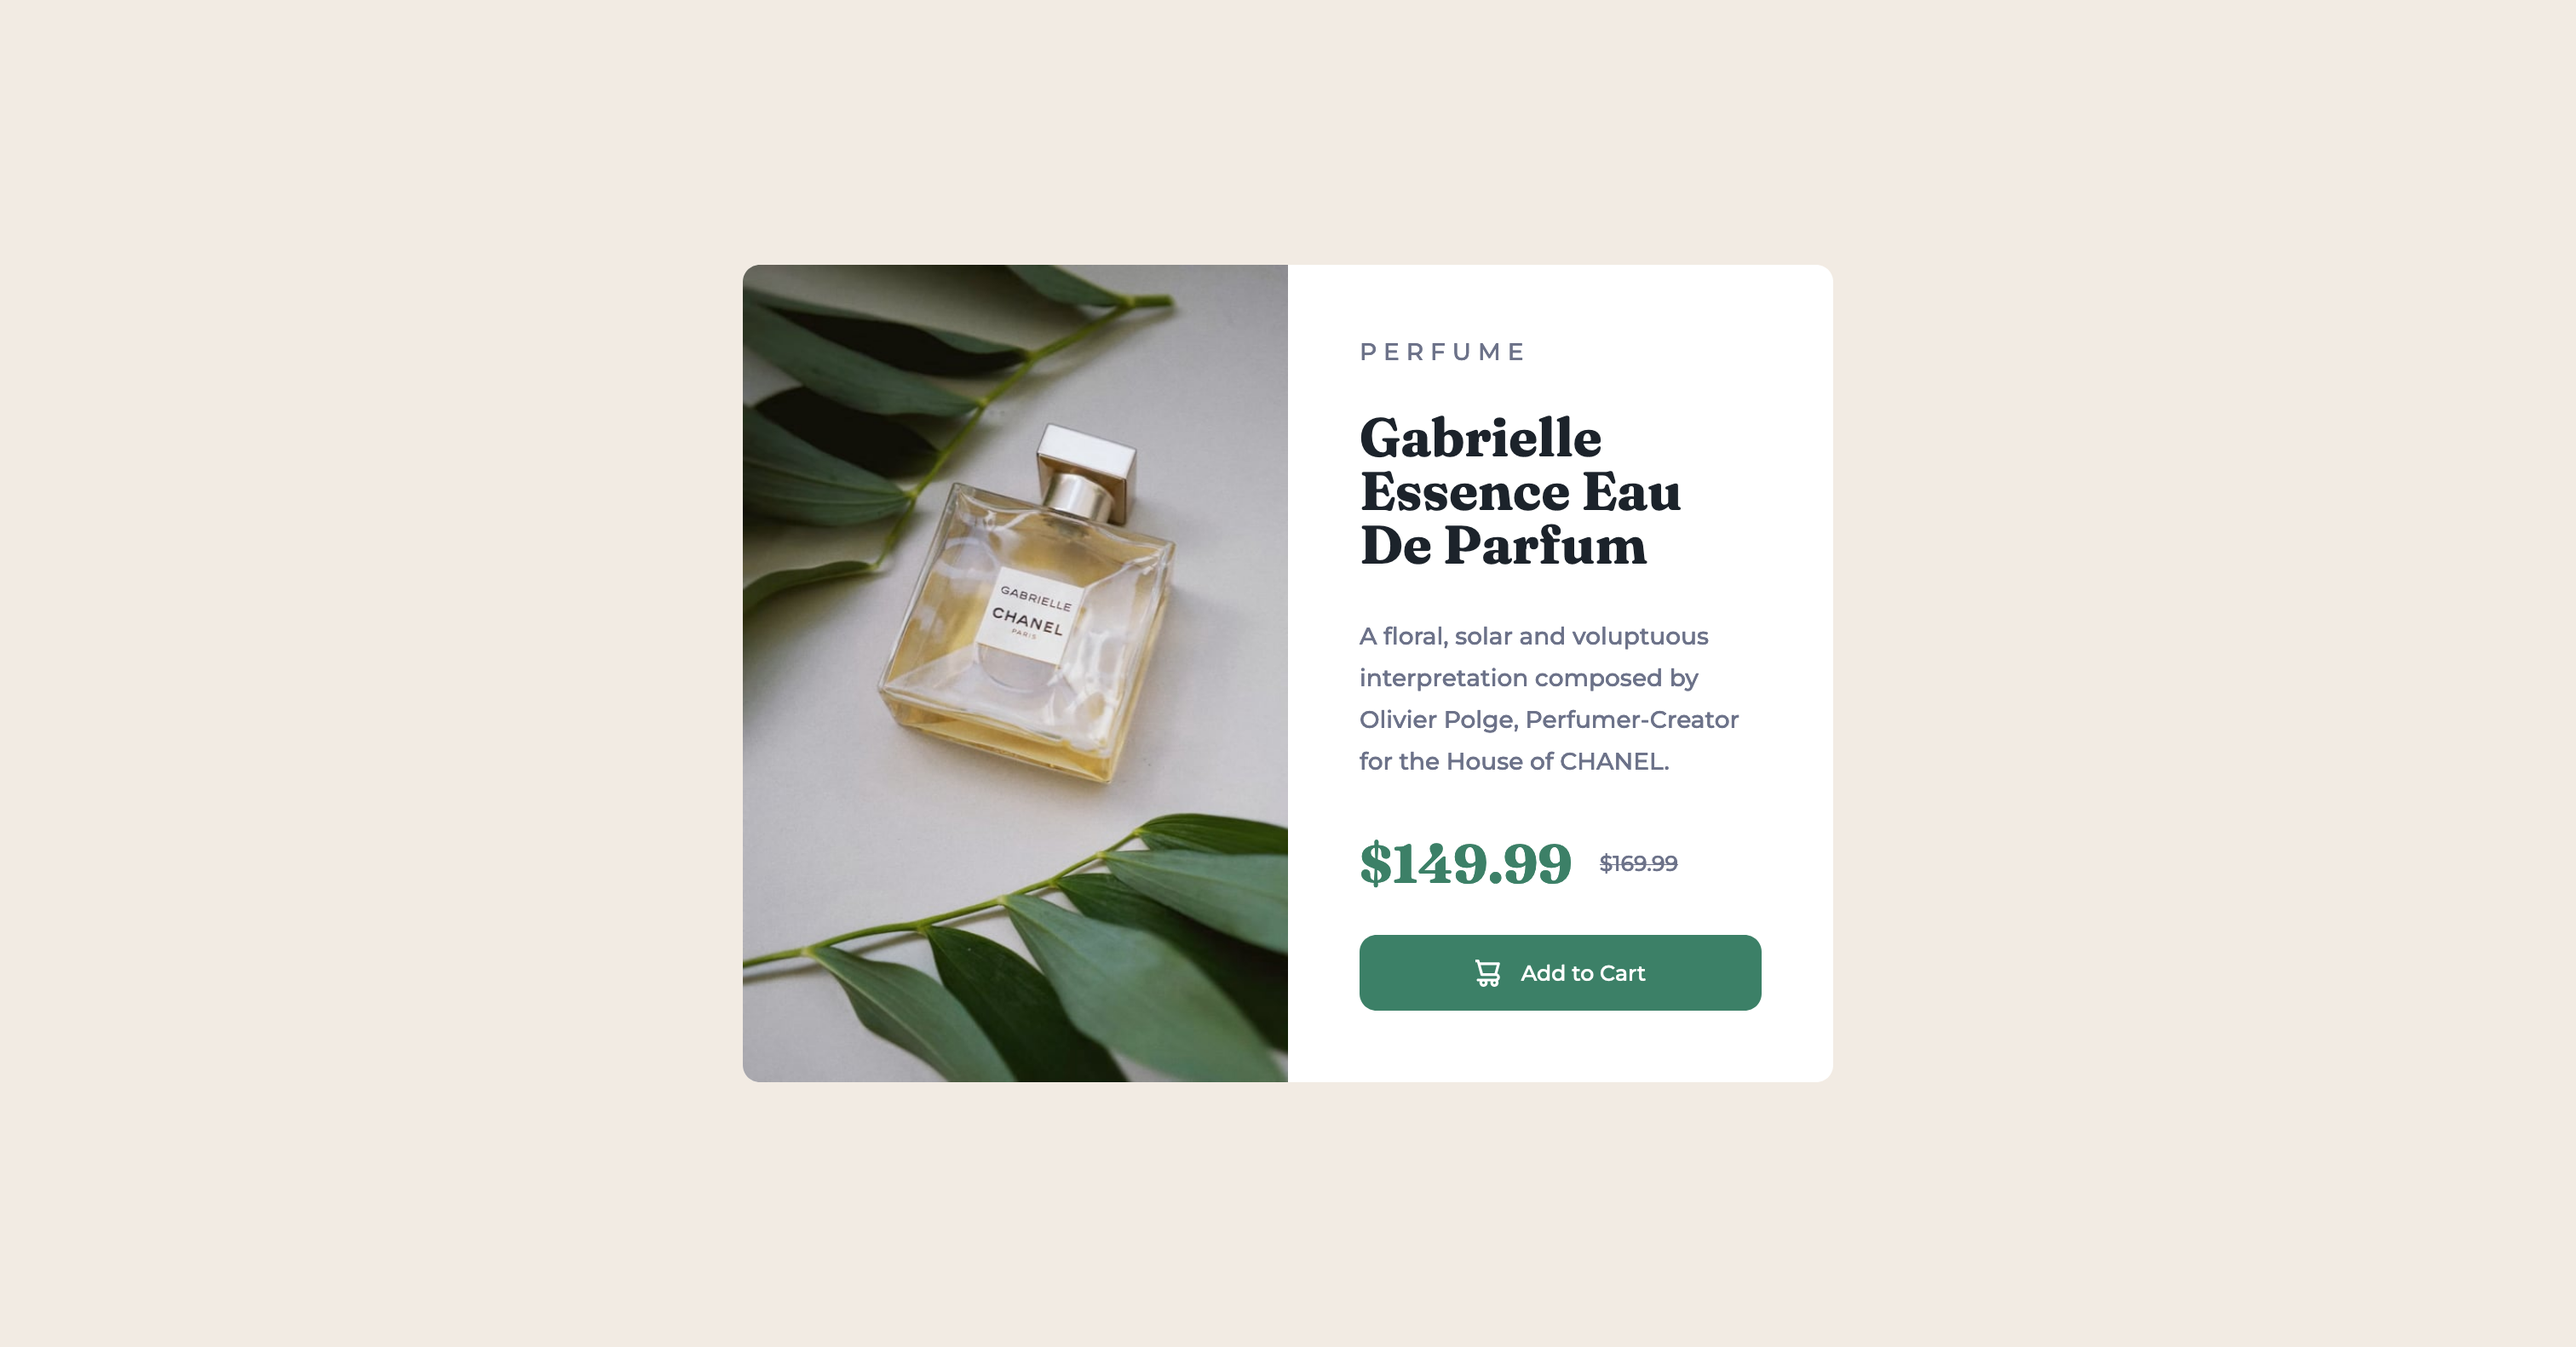
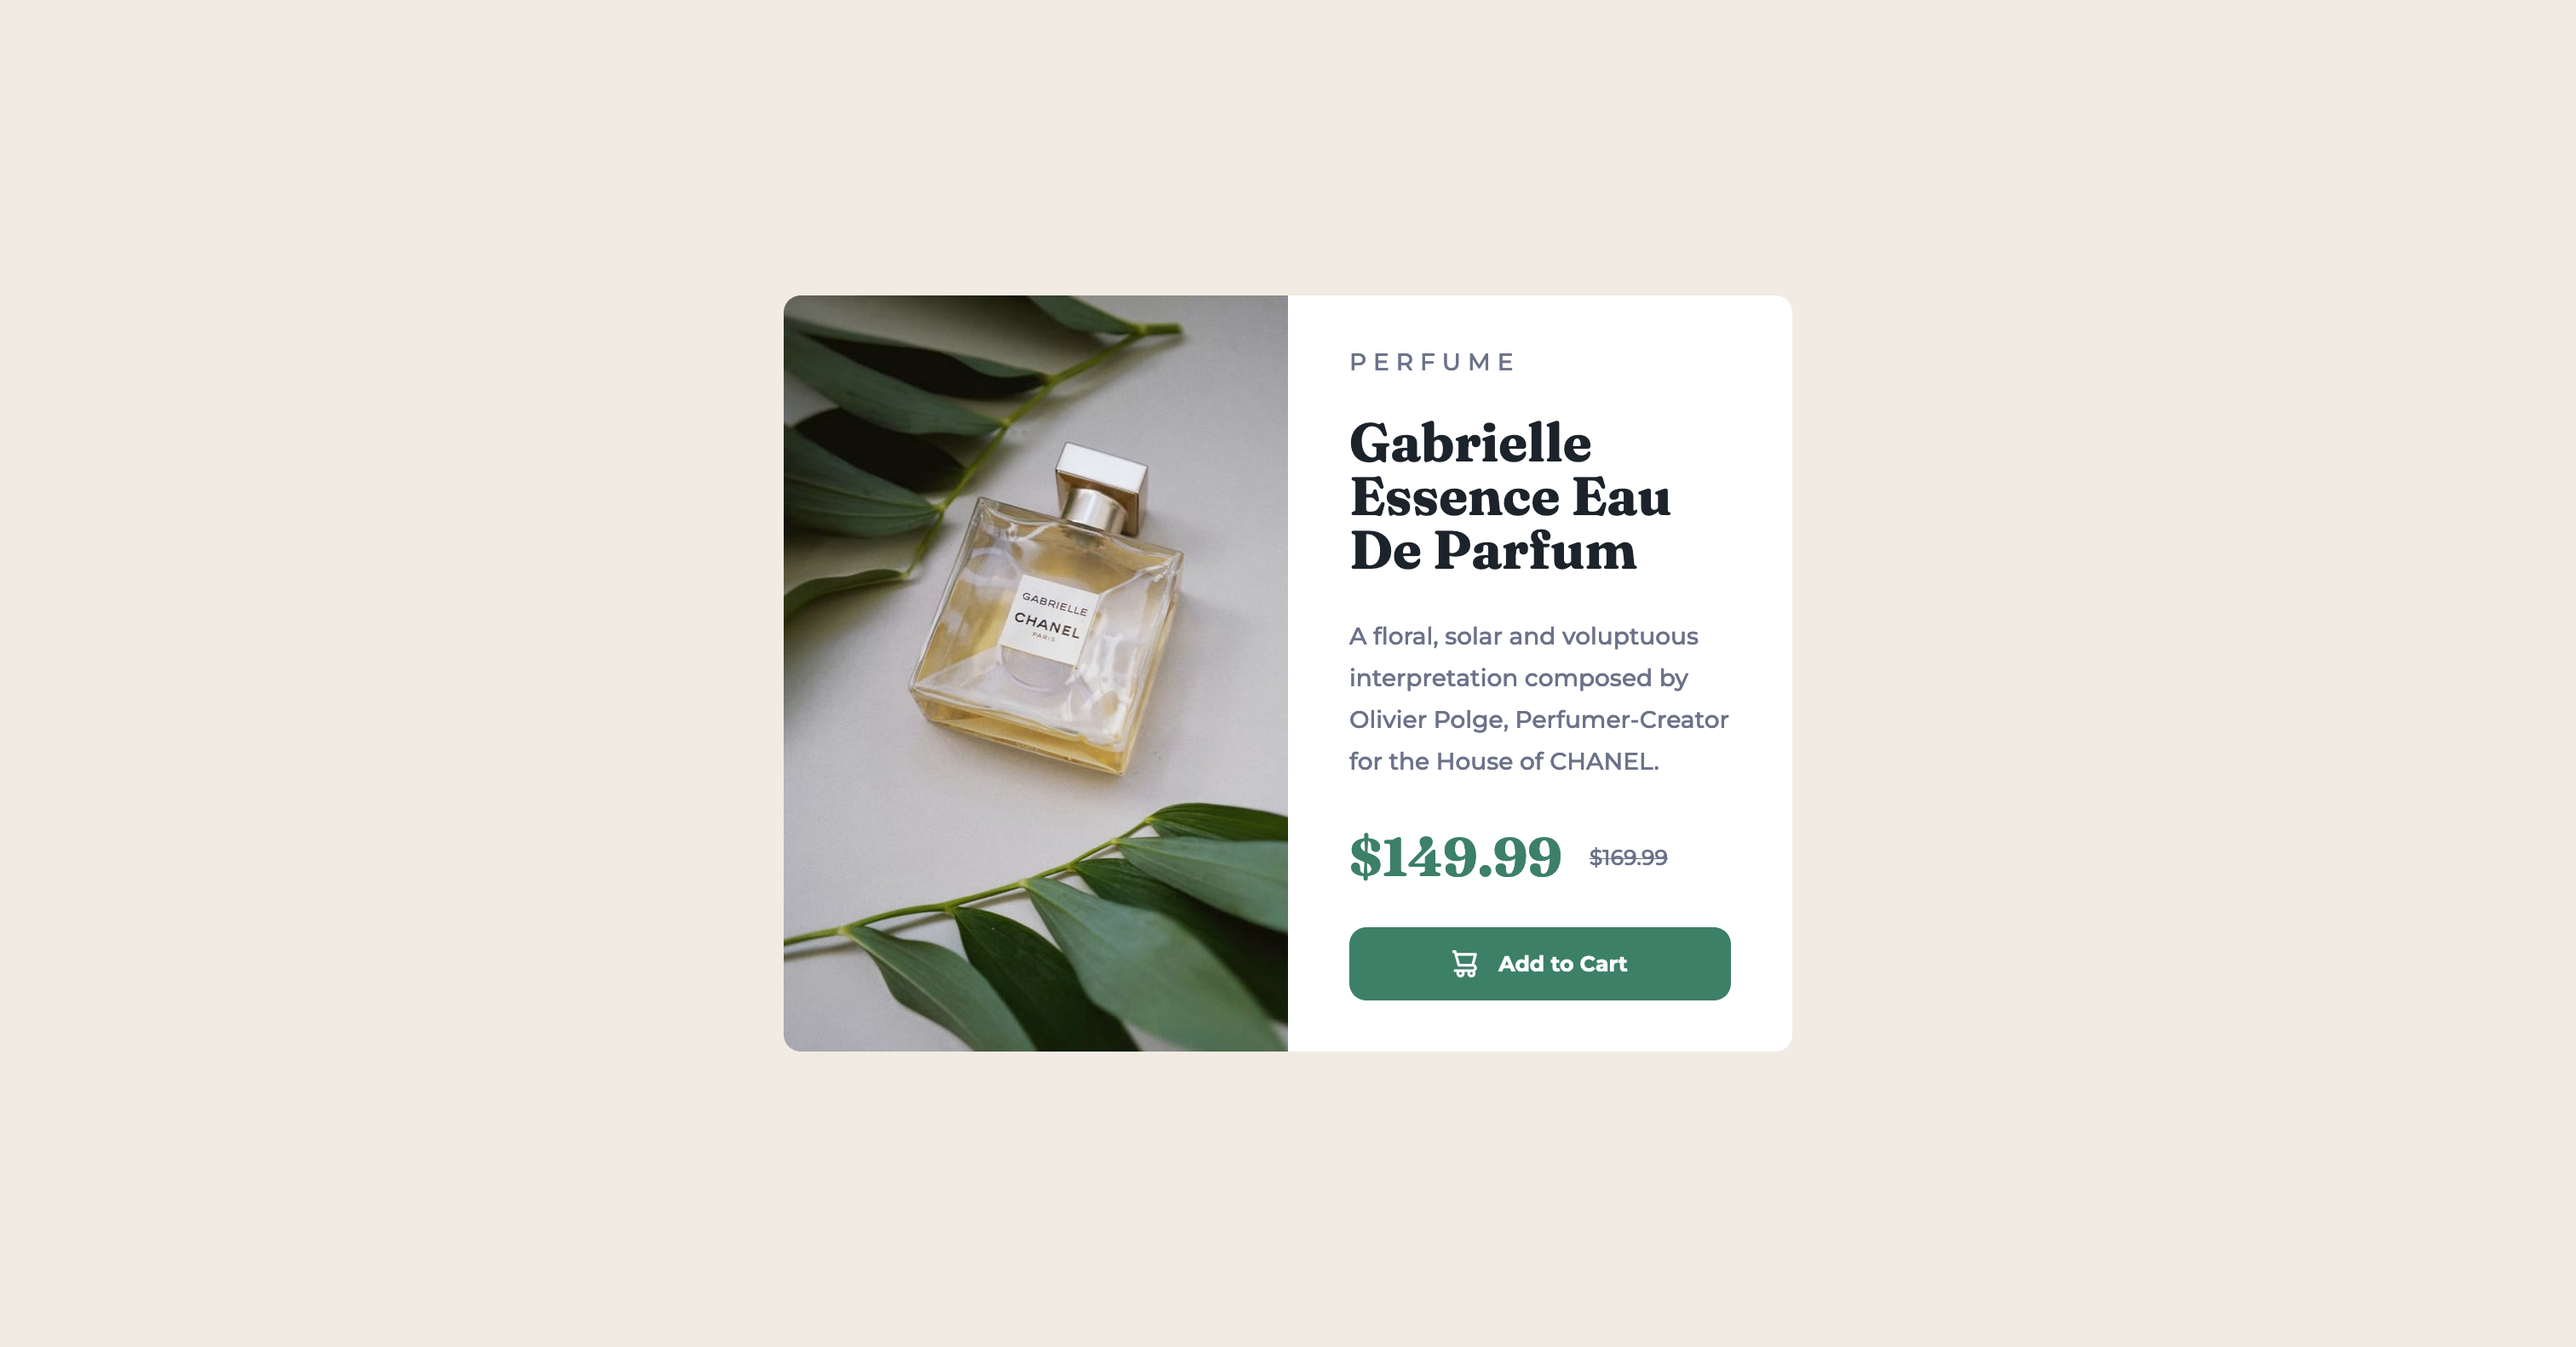
Fixed size of card.

Changed region(s): [[0.2798, 0.1858, 0.7149, 0.8053], [0.5284, 0.3097, 0.6528, 0.4336], [0.5284, 0.2478, 0.5906, 0.2788]]

diff --git a/style.css b/style.css
@@ -58,7 +58,7 @@ body {
     background-color: var(--clr-neutral-100);
     display: grid;
     grid-template-columns: repeat(2, 1fr);
-    max-width: 40rem;
+    max-width: 37rem;
     margin: 1rem;
     overflow: hidden;
 }
@@ -72,11 +72,12 @@ body {
 
 .product-info {
     display: grid;
-    padding: calc(var(--padding) * 1.75) calc(var(--padding) * 1.75);
+    padding: calc(var(--padding) * 1.25) calc(var(--padding) * 1.5);
     gap: 1rem;
+    transition: padding 200ms;
 }
 
-@media (max-width: 650px) {
+@media (max-width: 622px) {
     .product-info {
         padding: var(--padding);
     }
@@ -142,6 +143,7 @@ body {
     font-size: calc(var(--fs-p) * 0.9);
     cursor: pointer;
     gap: 0.75rem;
+    font-weight: var(--fw-bold);
 }
 
 .cart-btn:is(:hover, :focus) {

diff --git a/index.html b/index.html
@@ -34,7 +34,7 @@
             </p>
             <button class="cart-btn">
               <svg width="15" height="16" xmlns="http://www.w3.org/2000/svg"><path d="M14.383 10.388a2.397 2.397 0 0 0-1.518-2.222l1.494-5.593a.8.8 0 0 0-.144-.695.8.8 0 0 0-.631-.28H2.637L2.373.591A.8.8 0 0 0 1.598 0H0v1.598h.983l1.982 7.4a.8.8 0 0 0 .799.59h8.222a.8.8 0 0 1 0 1.599H1.598a.8.8 0 1 0 0 1.598h.943a2.397 2.397 0 1 0 4.507 0h1.885a2.397 2.397 0 1 0 4.331-.376 2.397 2.397 0 0 0 1.12-2.021ZM11.26 7.99H4.395L3.068 3.196h9.477L11.26 7.991Zm-6.465 6.392a.8.8 0 1 1 0-1.598.8.8 0 0 1 0 1.598Zm6.393 0a.8.8 0 1 1 0-1.598.8.8 0 0 1 0 1.598Z" fill="#FFF"/></svg>
-              <p>Add to Cart</p>
+              Add to Cart
             </button>
           </div>
         </section>
